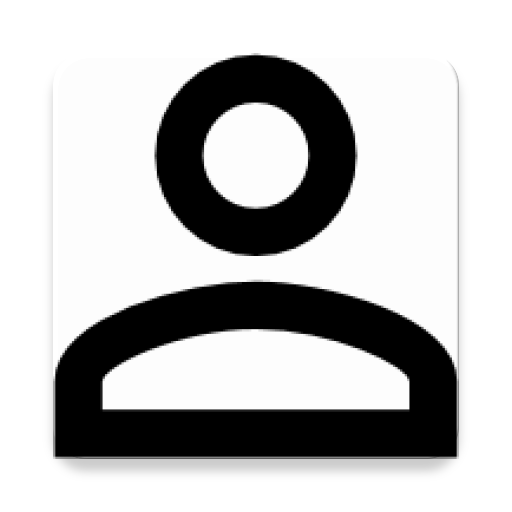
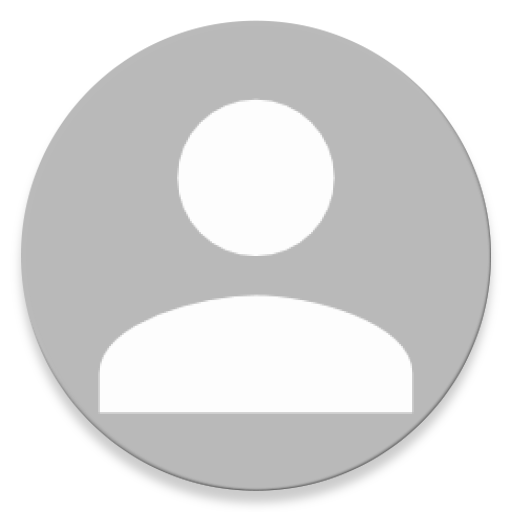
implementing User image, but too lazy to continue

diff --git a/app/src/main/java/dev/agbaria/sharedshoppinglist/Fragments/ProfileFragment.java b/app/src/main/java/dev/agbaria/sharedshoppinglist/Fragments/ProfileFragment.java
@@ -1,0 +1,61 @@
+package dev.agbaria.sharedshoppinglist.Fragments;
+
+
+import android.os.Bundle;
+import android.support.v4.app.Fragment;
+import android.view.LayoutInflater;
+import android.view.View;
+import android.view.ViewGroup;
+import android.widget.ImageView;
+import android.widget.TextView;
+
+import dev.agbaria.sharedshoppinglist.Models.User;
+import dev.agbaria.sharedshoppinglist.R;
+import dev.agbaria.sharedshoppinglist.Utils;
+
+/**
+ * A simple {@link Fragment} subclass.
+ */
+public class ProfileFragment extends Fragment implements View.OnClickListener {
+
+    private ImageView ivUserImage;
+    private TextView tvUserName;
+    private TextView tvUserEmail;
+
+    public ProfileFragment() {
+        // Required empty public constructor
+    }
+
+    @Override
+    public View onCreateView(LayoutInflater inflater, ViewGroup container,
+                             Bundle savedInstanceState) {
+        // Inflate the layout for this fragment
+        View view = inflater.inflate(R.layout.fragment_profile, container, false);
+        ivUserImage = (ImageView) view.findViewById(R.id.ivUserImage);
+        tvUserName = (TextView) view.findViewById(R.id.tvUserName);
+        tvUserEmail = (TextView) view.findViewById(R.id.tvUserEmail);
+        initViews();
+
+        ivUserImage.setOnClickListener(this);
+        view.findViewById(R.id.btnEditName).setOnClickListener(this);
+        return view;
+    }
+
+    private void initViews() {
+        User currentUser = Utils.getCurrentUser();
+
+        tvUserName.setText(currentUser.getName());
+        tvUserEmail.setText(currentUser.getEmail().replace(",", "."));
+    }
+
+    @Override
+    public void onClick(View view) {
+        switch (view.getId()) {
+            case R.id.btnEditName:
+                //TODO complete from here ...
+                return;
+            default:
+                //TODO take a picture
+        }
+    }
+}

diff --git a/app/src/main/java/dev/agbaria/sharedshoppinglist/Adapters/FriendsAdapter.java b/app/src/main/java/dev/agbaria/sharedshoppinglist/Adapters/FriendsAdapter.java
@@ -7,6 +7,7 @@ import android.view.LayoutInflater;
 import android.view.View;
 import android.view.View.OnClickListener;
 import android.view.ViewGroup;
+import android.widget.ImageView;
 import android.widget.RelativeLayout;
 import android.widget.TextView;
 
@@ -48,6 +49,8 @@ public class FriendsAdapter extends RecyclerView.Adapter<FriendsAdapter.ViewHold
     public void onBindViewHolder(final ViewHolder holder, int position) {
         DataSnapshot snapshot = friends.get(position);
         User user = snapshot.getValue(User.class);
+//        if(user.getPictureURL() != null)
+            //TODO change user image if there is one
         holder.friendName.setText(user.getName());
         holder.friendEmail.setText(user.getEmail());
         holder.layout.setOnClickListener(new OnClickListener() {
@@ -69,6 +72,7 @@ public class FriendsAdapter extends RecyclerView.Adapter<FriendsAdapter.ViewHold
 
     class ViewHolder extends RecyclerView.ViewHolder {
 
+        ImageView friendImage;
         TextView friendName;
         TextView friendEmail;
         public RelativeLayout layout;
@@ -76,6 +80,7 @@ public class FriendsAdapter extends RecyclerView.Adapter<FriendsAdapter.ViewHold
         ViewHolder(View v) {
             super(v);
 
+            friendImage = (ImageView) v.findViewById(R.id.ivUserImage);
             friendName = (TextView) v.findViewById(R.id.tvFriendName);
             friendEmail = (TextView) v.findViewById(R.id.tvFriendEmail);
             layout = (RelativeLayout) v.findViewById(R.id.rlFriend);

diff --git a/app/src/main/java/dev/agbaria/sharedshoppinglist/Activities/MainActivity.java b/app/src/main/java/dev/agbaria/sharedshoppinglist/Activities/MainActivity.java
@@ -14,6 +14,7 @@ import com.google.firebase.auth.FirebaseAuth;
 import com.google.firebase.auth.FirebaseUser;
 
 import dev.agbaria.sharedshoppinglist.Fragments.FriendsFragment;
+import dev.agbaria.sharedshoppinglist.Fragments.ProfileFragment;
 import dev.agbaria.sharedshoppinglist.Fragments.SavedListsFragment;
 import dev.agbaria.sharedshoppinglist.Fragments.SharedListsFragment;
 import dev.agbaria.sharedshoppinglist.R;
@@ -94,6 +95,9 @@ public class MainActivity extends AppCompatActivity {
                         .addToBackStack(null).commit();
                 return true;
             case R.id.action_profile:
+                fragment = new ProfileFragment();
+                getSupportFragmentManager().beginTransaction().replace(R.id.content_main, fragment)
+                        .addToBackStack(null).commit();
                 return true;
             case R.id.action_signout:
                 Utils.removeUser();

diff --git a/app/src/main/java/dev/agbaria/sharedshoppinglist/Models/User.java b/app/src/main/java/dev/agbaria/sharedshoppinglist/Models/User.java
@@ -16,6 +16,7 @@ public class User {
     public User(String name, String email) {
         this.name = name;
         this.email = email;
+        this.pictureURL = null;
     }
 
     public String getName() {
@@ -33,6 +34,14 @@ public class User {
     public void setEmail(String email) {
             this.email = email;
         }
+
+    public String getPictureURL() {
+        return pictureURL;
+    }
+
+    public void setPictureURL(String pictureURL) {
+        this.pictureURL = pictureURL;
+    }
 
     @Override
     public String toString() {

diff --git a/app/src/main/java/dev/agbaria/sharedshoppinglist/Utils.java b/app/src/main/java/dev/agbaria/sharedshoppinglist/Utils.java
@@ -67,4 +67,8 @@ public class Utils {
                     }
                 });
     }
+
+    public static User getCurrentUser() {
+        return user;
+    }
 }
